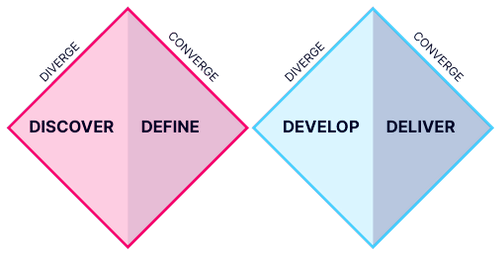
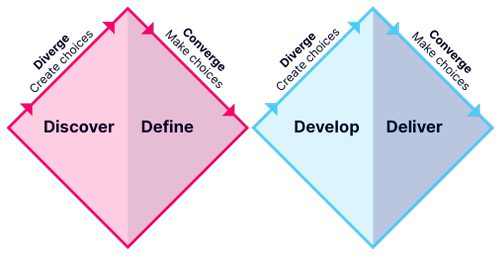
Updated profile image

diff --git a/about.html b/about.html
@@ -1,5 +1,5 @@
 <!DOCTYPE html><!--  This site was created in Webflow. http://www.webflow.com  -->
-<!--  Last Published: Thu Dec 02 2021 20:29:40 GMT+0000 (Coordinated Universal Time)  -->
+<!--  Last Published: Tue Dec 07 2021 16:49:34 GMT+0000 (Coordinated Universal Time)  -->
 <html data-wf-page="6193c5b079d55c67cbe2cc90" data-wf-site="61926191ea8005711e61b490" lang="en">
 <head>
   <meta charset="utf-8">
@@ -56,8 +56,8 @@
       <h1 class="h2">About Me</h1>
       <div class="text-block">I’m a family man, lover of all things burrito, and superhero movie aficionado. A midwest native my entire life; I have a bachelor&#x27;s degree from the Columbus College of Art and Design, and have been working in the central Ohio area for my entire career.<br><br>I&#x27;m a nerd at heart whether it&#x27;s tinkering with computer parts in my basement, digging through bins at toy conventions, or diving deep into the lore of a new movie. I also have a passion for physical fitness and love exercising with my son at the crack of dawn before he catches the morning school bus.</div>
       <h2 class="h2">How I work</h2>
-      <div class="text-block">My education in visual design and real-world experience in IT have served me well in the &quot;wear many hats&quot; career of product design. Since my core skills lie at the convergence of technology and design, I’m skilled at creating digital products and experiences with an iterative and data-driven approach. I&#x27;m equally comfortable amongst a group of developers as I am with designers; and I am ready to dive into challenges whether they are ambiguous, organizational, aesthetic or technical in nature. <br><br>I am fueled by being around talented people, and I aim to be equally inspiring to others on their professional development journey. I also am an advocate for design thinking, and love to give workshops introducing the concept and methodologies to stakeholders within organizations. <br></div><img src="images/about-double_diamond.png" loading="lazy" sizes="(max-width: 479px) 92vw, (max-width: 991px) 95vw, 760px" srcset="images/about-double_diamond-p-500.png 500w, images/about-double_diamond-p-800.png 800w, images/about-double_diamond.png 1520w" alt="Illustration of the double diagram methodology" class="about-image">
-      <div class="text-block">My ideal work methodology revolves around the <a href="https://evaschicker2012.medium.com/why-the-double-diamond-is-the-most-precious-diagram-in-ux-design-40db0476e5d2" target="_blank" class="text-block_link">double diamond</a>, as it gives me the framework to iterate on the journey to solving problems. I feel equally comfortable drafting a research plan and interviewing users, as I do creating prototypes and building pixel-perfect design systems.<br></div>
+      <div class="text-block">My education in visual design and real-world experience in IT have served me well in the &quot;wear many hats&quot; career of product design. Since my core skills lie at the convergence of technology and design, I’m skilled at creating digital products and experiences with an iterative and data-driven approach. I&#x27;m equally comfortable amongst a group of developers as I am with designers; and I am ready to dive into challenges whether they are ambiguous, organizational, aesthetic or technical in nature. <br><br>I am fueled by being around talented people, and I aim to be equally inspiring to others on their professional development journey. I also am an advocate for design thinking, and love to give workshops introducing the concept and methodologies to stakeholders within organizations. <br></div><img src="images/about-double_diamond.png" loading="lazy" sizes="(max-width: 479px) 92vw, (max-width: 991px) 95vw, 760px" srcset="images/about-double_diamond.png 500w, images/about-double_diamond.png 800w, images/about-double_diamond.png 1080w, images/about-double_diamond.png 1520w" alt="Illustration of the double diamond diagram methodology" class="about-image">
+      <div class="text-block">My ideal work methodology is the, as it provides the framework to iterate on the journey to solving problems. I feel equally comfortable drafting a research plan and interviewing subjects, as I do creating prototypes and building pixel-perfect design systems.<br><br>The <a href="https://www.designcouncil.org.uk/news-opinion/what-framework-innovation-design-councils-evolved-double-diamond" rel="nofollow" target="_blank" class="text-block_link">Design Council</a> has a great writeup defining the components of the double diamond, but I can share some foundational elements of the approach here.<br><br><strong>Discovery</strong><br>This phase focuses on gathering data to fully understand the underlying challenges. Artifacts include interviews, ethnographic observations and research plans.<br><br><strong>Define</strong><br>Makes sense of the data from the discovery phase to help create a focused direction on a potentially reframed challenge. Outputs include personas, journey maps, empathy mapping, etc.<br><br><strong>Develop</strong><br>Explore solutions, new possibilities and test ideas. Work for this phase consists of &quot;How might we...&quot; questions, crazy eights, role playing, storyboards, etc.<br><br><strong>Deliver</strong><br>Take the learnings from the testing in the develop phase and focuses on refining the ideas and delivering on solutions.<br></div>
       <div class="div-card about-competencies">
         <h4 class="h4 h4-competencies-list">Competencies</h4>
         <div class="w-layout-grid grid-about_competencies">

diff --git a/index.html b/index.html
@@ -1,5 +1,5 @@
 <!DOCTYPE html><!--  This site was created in Webflow. http://www.webflow.com  -->
-<!--  Last Published: Sat Dec 04 2021 01:57:27 GMT+0000 (Coordinated Universal Time)  -->
+<!--  Last Published: Tue Dec 07 2021 16:49:34 GMT+0000 (Coordinated Universal Time)  -->
 <html data-wf-page="61926191ea8005f69f61b491" data-wf-site="61926191ea8005711e61b490" lang="en">
 <head>
   <meta charset="utf-8">
@@ -63,7 +63,7 @@
   <div class="section-home_about wf-section">
     <div class="div-home_about">
       <div class="w-layout-grid grid-home_about">
-        <div class="div-home_about-image"><img src="images/home-phil_profile.jpg" loading="eager" alt="Picture of Phil Carter" class="image"></div>
+        <div class="div-home_about-image"><img src="images/home-phil_profile.jpg" loading="eager" sizes="(max-width: 479px) 83vw, (max-width: 767px) 600px, (max-width: 952px) 63vw, 600px" srcset="images/home-phil_profile.jpg 500w, images/home-phil_profile.jpg 600w" alt="Picture of Phil Carter" class="image"></div>
         <div id="w-node-_88e40054-35ca-4862-6f6c-db72e8765dfd-9f61b491" class="div-home_about_grid">
           <h2 class="h2 home-about">Hey, I&#x27;m Phil</h2>
           <div class="text-block">I&#x27;m a lifelong creative living in the midwest with my wife and two awesome children. I enjoy advocating for design thinking and mentoring designers to solve complex problems with elegant solutions. I am captivated by exploring UX in emerging technologies, and relish making things that people actually want to use.</div>

diff --git a/css/handsomephil.webflow.css b/css/handsomephil.webflow.css
@@ -708,21 +708,12 @@
   margin-bottom: 20px;
 }
 
-.field-label {
-  font-family: Inter, sans-serif;
-  font-weight: 400;
-}
-
-.body-2 {
+.body-password {
   font-family: Inter, sans-serif;
 }
 
-.text-field {
+.field-text {
   color: #595959;
-}
-
-.password-blur {
-  position: absolute;
 }
 
 .error-message {
@@ -730,7 +721,7 @@
   background-color: transparent;
 }
 
-.text-block-3 {
+.text-block_error {
   color: #f50069;
 }
 
